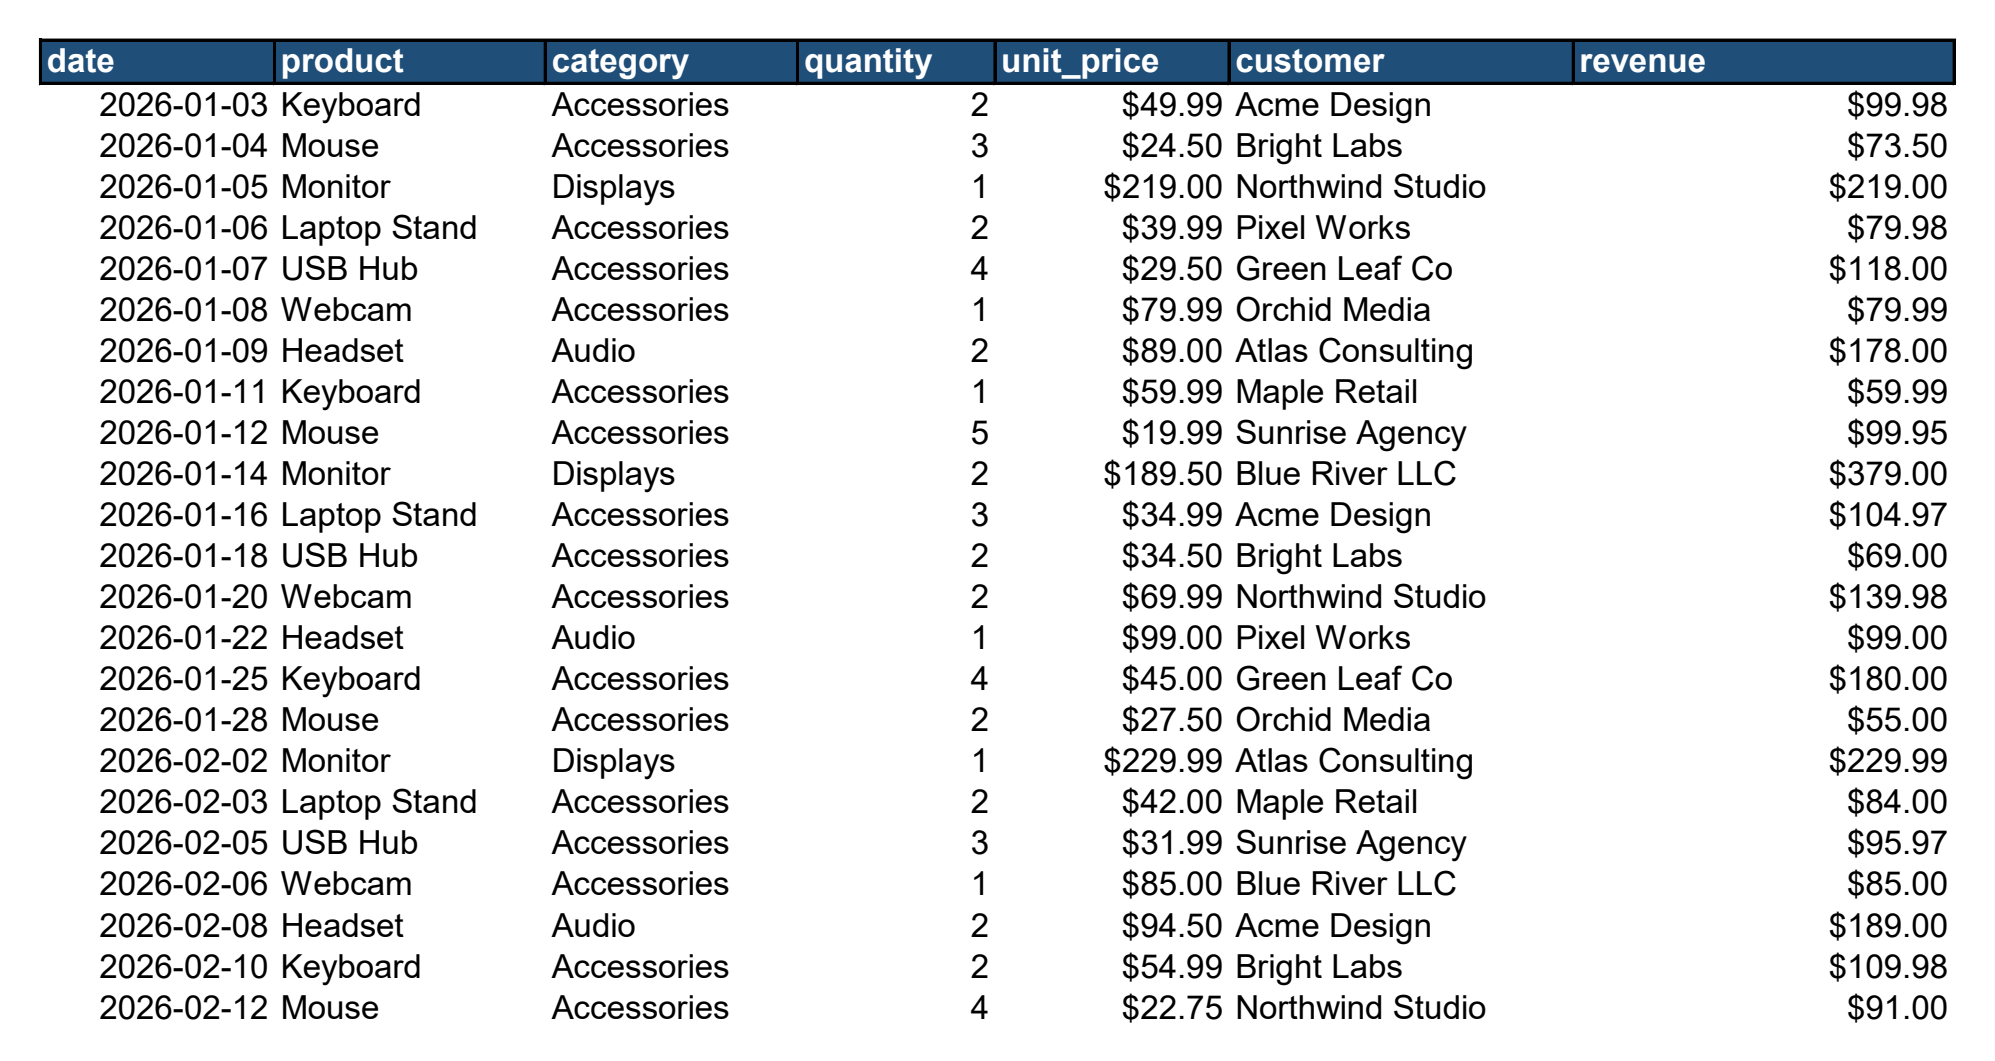
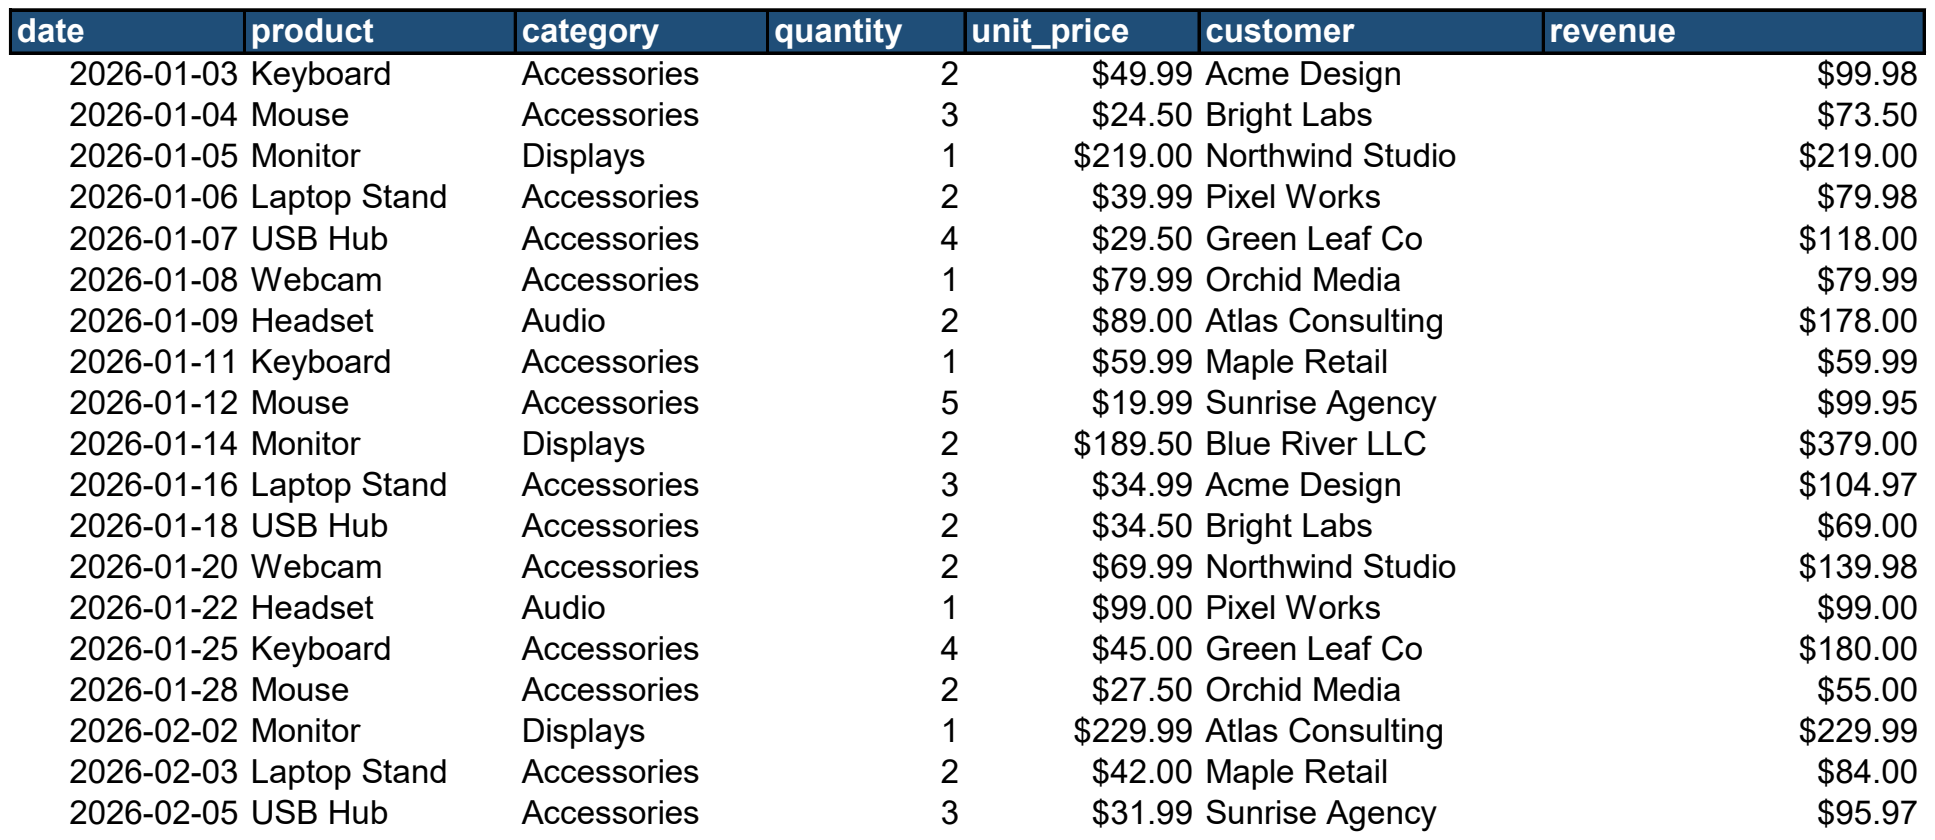
Polish Upwork portfolio presentation

diff --git a/src/report_generator.py b/src/report_generator.py
@@ -40,7 +40,7 @@ def generate_excel_report(
             ("Total Transactions", kpis["Total Transactions"], integer_format),
             ("Units Sold", kpis["Total Units Sold"], integer_format),
             ("Unique Customers", kpis["Unique Customers"], integer_format),
-            ("Average Order Value", kpis["Average Order Value"], currency_format),
+            ("Average Transaction Value", kpis["Average Transaction Value"], currency_format),
             ("Best Selling Product", kpis["Best Selling Product"], value_format),
             ("Highest Revenue Product", kpis["Highest Revenue Product"], value_format),
         ]

diff --git a/src/analytics.py b/src/analytics.py
@@ -24,7 +24,7 @@ def calculate_kpis(cleaned_df: pd.DataFrame) -> dict[str, object]:
         "Total Transactions": total_transactions,
         "Total Units Sold": total_units_sold,
         "Unique Customers": int(cleaned_df["customer"].nunique()),
-        "Average Order Value": average_order_value,
+        "Average Transaction Value": average_order_value,
         "Best Selling Product": best_selling_product,
         "Highest Revenue Product": highest_revenue_product,
     }

diff --git a/tests/test_analytics.py b/tests/test_analytics.py
@@ -24,7 +24,7 @@ def test_calculate_kpis_returns_expected_values() -> None:
     assert kpis["Total Transactions"] == 3
     assert kpis["Total Units Sold"] == 7.0
     assert kpis["Unique Customers"] == 2
-    assert round(kpis["Average Order Value"], 2) == 56.67
+    assert round(kpis["Average Transaction Value"], 2) == 56.67
     assert kpis["Best Selling Product"] == "Mouse"
     assert kpis["Highest Revenue Product"] == "Keyboard"
 

diff --git a/README.md b/README.md
@@ -4,6 +4,10 @@ Python Sales Report Automation turns a raw sales CSV into a clean, easy-to-read 
 
 Raw CSV -> Python cleans and validates the data -> business metrics are calculated -> Excel management report is generated.
 
+## Preview
+
+![Sales report summary dashboard](portfolio/01_summary_dashboard.png)
+
 ## Features
 
 - Reads a sales CSV with a simple six-column format.
@@ -92,11 +96,11 @@ The generated Excel file contains:
 
 - **Summary** — key metrics, best-selling product and two business charts.
 - **Cleaned Data** — valid sales records with calculated revenue.
-- **Product Performance** — units, orders, revenue and average selling price by product.
-- **Monthly Report** — monthly orders, units sold and revenue.
+- **Product Performance** — units, transactions, revenue and average selling price by product.
+- **Monthly Report** — monthly transactions, units sold and revenue.
 - **Rejected Rows** — rows that failed validation, retained for review.
 
-The Summary sheet includes Total Revenue, Total Transactions, Units Sold, Unique Customers, Average Order Value, Best Selling Product and Highest Revenue Product. It also includes Revenue by Product and Monthly Revenue Trend charts.
+The Summary sheet includes Total Revenue, Total Transactions, Units Sold, Unique Customers, Average Transaction Value, Best Selling Product and Highest Revenue Product. It also includes Revenue by Product and Monthly Revenue Trend charts.
 
 ## Technologies used
 
